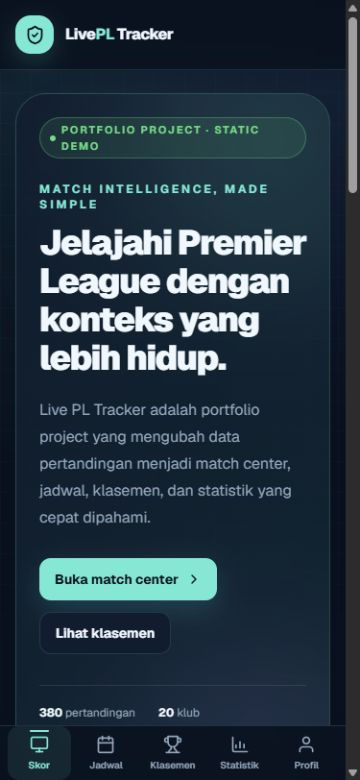
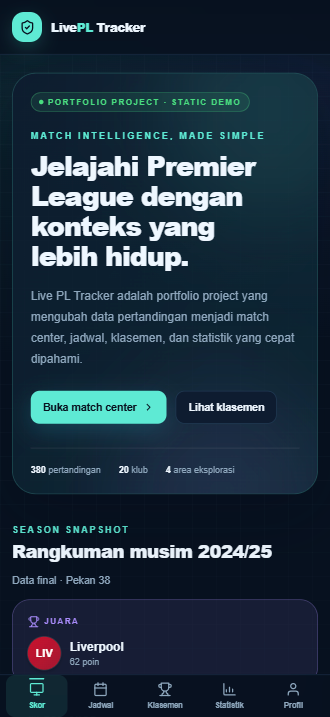
docs: add portfolio screenshots to README

diff --git a/README.md b/README.md
@@ -65,17 +65,34 @@ Sebuah dashboard editorial sports-tech dengan empat area utama:
 
 ## Screenshots
 
-### Desktop — Home
+Screenshot berikut memperlihatkan alur utama Live PL Tracker dari overview musim
+hingga detail pertandingan, klasemen, statistik pemain, dan profil klub.
+
+### Home — Desktop
 
 ![Live PL Tracker desktop home](./docs/screenshots/home-desktop.png)
 
-### Mobile — Home
+### Home — Mobile
 
 ![Live PL Tracker mobile home](./docs/screenshots/home-mobile.png)
 
-### Desktop — Schedule & Match Center
+### Schedule & Match Center — Desktop
 
 ![Live PL Tracker schedule desktop](./docs/screenshots/schedule-desktop.png)
+
+![Live PL Tracker match center desktop](./docs/screenshots/match-center-desktop.png)
+
+### Standings — Desktop
+
+![Live PL Tracker standings desktop](./docs/screenshots/standings-desktop.png)
+
+### Player Stats — Desktop
+
+![Live PL Tracker player stats desktop](./docs/screenshots/stats-desktop.png)
+
+### Team Profile — Desktop
+
+![Live PL Tracker team profile desktop](./docs/screenshots/team-profile-desktop.png)
 
 ## Challenge
 
